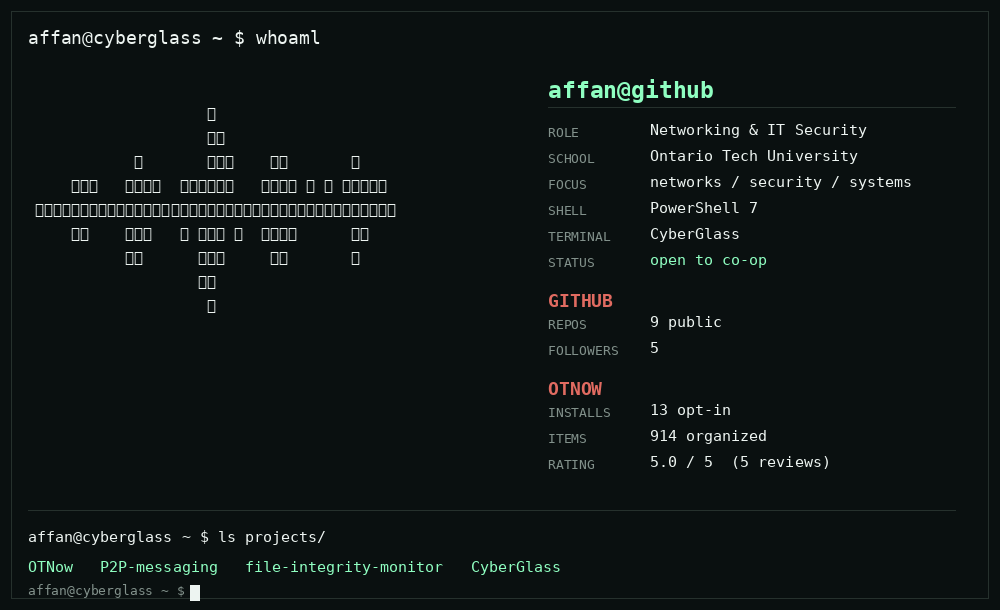
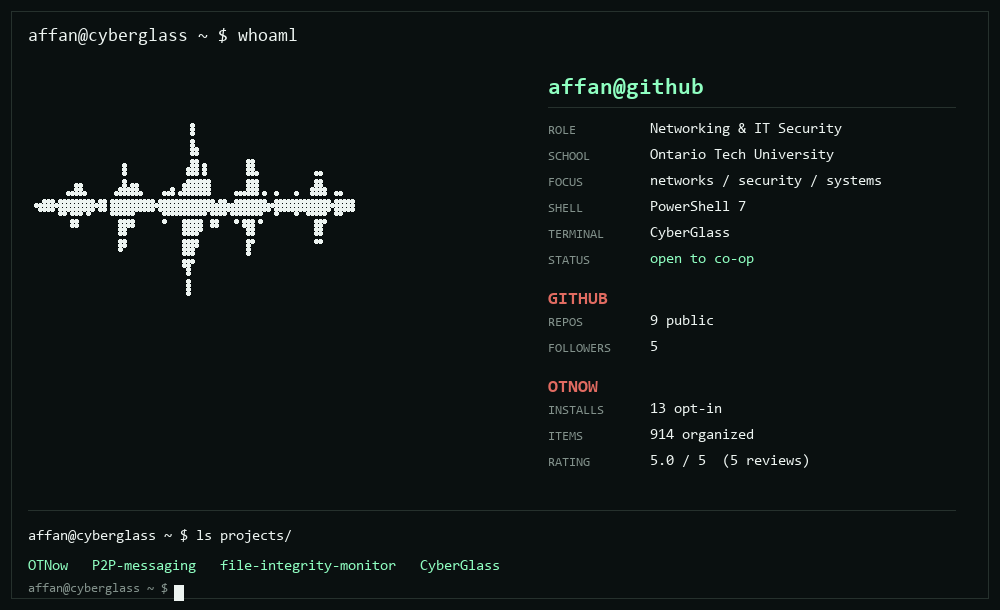
Render terminal mark without font dependencies

diff --git a/.github/scripts/render-profile-terminal.py b/.github/scripts/render-profile-terminal.py
@@ -98,11 +98,41 @@ FONT_BOLD = find_font(18, bold=True)
 FONT_SMALL = find_font(15)
 FONT_TINY = find_font(13)
 
-_probe = ImageDraw.Draw(Image.new("RGB", (1, 1)))
-for logo_size in range(15, 7, -1):
-    LOGO_FONT = find_font(logo_size, symbols=True)
-    if max(_probe.textlength(line, font=LOGO_FONT) for line in LOGO.splitlines()) <= 478:
-        break
+
+def draw_braille_logo(
+    draw: ImageDraw.ImageDraw,
+    x: int,
+    y: int,
+    color: str,
+) -> None:
+    """Render Unicode Braille deterministically without depending on host fonts."""
+    cell_width = 8
+    cell_height = 20
+    radius = 2
+    dot_positions = {
+        0: (2, 3),
+        1: (2, 7),
+        2: (2, 11),
+        3: (6, 3),
+        4: (6, 7),
+        5: (6, 11),
+        6: (2, 15),
+        7: (6, 15),
+    }
+    for row, line in enumerate(LOGO.splitlines()):
+        for column, character in enumerate(line):
+            codepoint = ord(character)
+            if not 0x2800 <= codepoint <= 0x28FF:
+                continue
+            pattern = codepoint - 0x2800
+            for bit, (dx, dy) in dot_positions.items():
+                if pattern & (1 << bit):
+                    dot_x = x + column * cell_width + dx
+                    dot_y = y + row * cell_height + dy
+                    draw.ellipse(
+                        (dot_x - radius, dot_y - radius, dot_x + radius, dot_y + radius),
+                        fill=color,
+                    )
 
 
 def blank() -> Image.Image:
@@ -173,11 +203,7 @@ def fastfetch_frame(stats: dict[str, str], row_count: int, cursor: bool = False)
     draw = ImageDraw.Draw(image)
     draw.text((28, 27), "affan@cyberglass ~ $ whoaml", font=FONT, fill=FG)
 
-    logo_y = 105
-    logo_step = max(23, LOGO_FONT.getbbox("Hg")[3] + 7)
-    for line in LOGO.splitlines():
-        draw.text((26, logo_y), line, font=LOGO_FONT, fill=FG)
-        logo_y += logo_step
+    draw_braille_logo(draw, 26, 118, FG)
 
     draw.text((548, 76), "affan@github", font=find_font(23, bold=True), fill=MINT)
     draw.line((548, 107, 955, 107), fill=TRACK, width=1)
